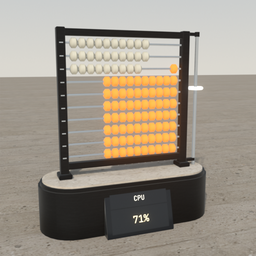
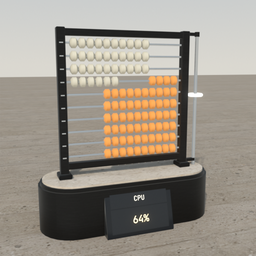
Gauges: warm amber fill (about 30 degrees on screen), orange warn, red fail
The fill palette tone-mapped to pale lemon (about 54 degrees). Core's ACES
curve lifts green on bright warm surfaces, so the palette now sits well to
the red of its on-screen hue with a low emission: ok measures 26-28 deg in
Lumen Reach daylight and 32-34 deg in Array Hall, warn about 14 deg,
fail about 0 deg, distinct from each other. Rebuilt on the bake host and
optimised; the thumbnails show the ok state in the colour core puts on
screen (render-only display colours in scenarios.py, since the Standard
view renders have no ACES curve).

Changed region(s): [[0.2812, 0.25, 0.8125, 0.625], [0.5, 0.8125, 0.5625, 0.875]]

diff --git a/objects/machines/kit.py b/objects/machines/kit.py
@@ -74,9 +74,11 @@ PALETTES = {
     'beacon': [('off', SLATE, .15), ('active', AMBER, 2.0), ('live', MINT, 2.2), ('fail', RED, 2.4)],
     'face':   [('idle', (.16, .2, .24), .35), ('running', CYAN, 1.2), ('ok', MINT, 1.1), ('fail', RED, 1.4)],
     'token':  [('queued', IVORY, .3), ('running', CYAN, 1.2), ('ok', MINT, 1.1), ('fail', RED, 1.4)],
-    # A large lit fill: emission well below the lamps' so the hue survives tone mapping in
-    # daylight (amber, orange, red rather than pale lemon).
-    'gauge':  [('ok', (1.0, .55, .08), .45), ('warn', (1.0, .30, .04), .5), ('fail', (.85, .06, .03), .6),
+    # A large lit fill: tone mapping lifts green on bright warm surfaces, so the colours sit
+    # well to the red of their on-screen hue and the emission stays low. Measured in-engine
+    # (Lumen Reach daylight and Array Hall): ok 26-34 deg amber, warn ~14 deg orange,
+    # fail ~0 deg red.
+    'gauge':  [('ok', (1.0, .182, .075), .08), ('warn', (1.0, .07, .03), .12), ('fail', (.8, .015, .015), .3),
                ('stale', (.35, .33, .3), .05)],
 }
 

diff --git a/objects/machines/scenarios.py b/objects/machines/scenarios.py
@@ -142,8 +142,14 @@ def gauge_states(mid):
             gauge(mid, 96, 88, 'fail', 'GPU'), gauge(mid, 50, 50, 'stale', 'Swap')]
 
 
+# The fill palette is set for core's ACES tone curve, which lifts green on bright warm
+# surfaces; these Standard-view renders show the fill in the colour core puts on screen
+# (measured in Lumen Reach daylight and Array Hall, linear), not the raw palette.
+GAUGE_DISPLAY = {'fill': {'ok': (.887, .356, .080), 'warn': (.871, .114, .028), 'fail': (.855, .014, .013)}}
+
 for _g in GAUGES:
-    SHEETS[_g] = {'tile': (900, 1150), 'hero': gauge(_g, 71, 58, 'warn', 'CPU'), 'states': gauge_states(_g),
+    SHEETS[_g] = {'tile': (900, 1150), 'hero': gauge(_g, 64, 52, 'ok', 'CPU'), 'states': gauge_states(_g),
+                  'display': GAUGE_DISPLAY,
                   'callout': gauge(_g, 37, 52, 'ok', 'RAM'), 'turntable': gauge_states(_g)[1:4],
                   'hero_view': (-28, 12), 'callout_view': (-22, 14), 'lens': 50}
 SHEETS['gauge-abacus'].update({'tile': (1100, 1000), 'hero_view': (-20, 10)})

diff --git a/objects/machines/render.py b/objects/machines/render.py
@@ -161,10 +161,12 @@ class Machine:
     def palette(self, slot_id, state, emission=1.0):
         slot = next(s for s in self.slots.get('states', []) if s['id'] == slot_id)
         entry = next(e for e in slot['palette'] if e['id'] == state)
+        # A machine's render-only display colour (scenarios: the colour core shows on screen).
+        colour = scenarios.SHEETS.get(self.id, {}).get('display', {}).get(slot_id, {}).get(state, entry['colour'])
         for mname in slot.get('materials', []):
             m = self.materials[mname]; p = m.node_tree.nodes.get('Principled BSDF')
-            p.inputs['Base Color'].default_value = (*entry['colour'], 1)
-            p.inputs['Emission Color'].default_value = (*entry['colour'], 1)
+            p.inputs['Base Color'].default_value = (*colour, 1)
+            p.inputs['Emission Color'].default_value = (*colour, 1)
             p.inputs['Emission Strength'].default_value = entry['emission'] * emission
 
     def anim_pose(self, node, angle=None, value=None):
